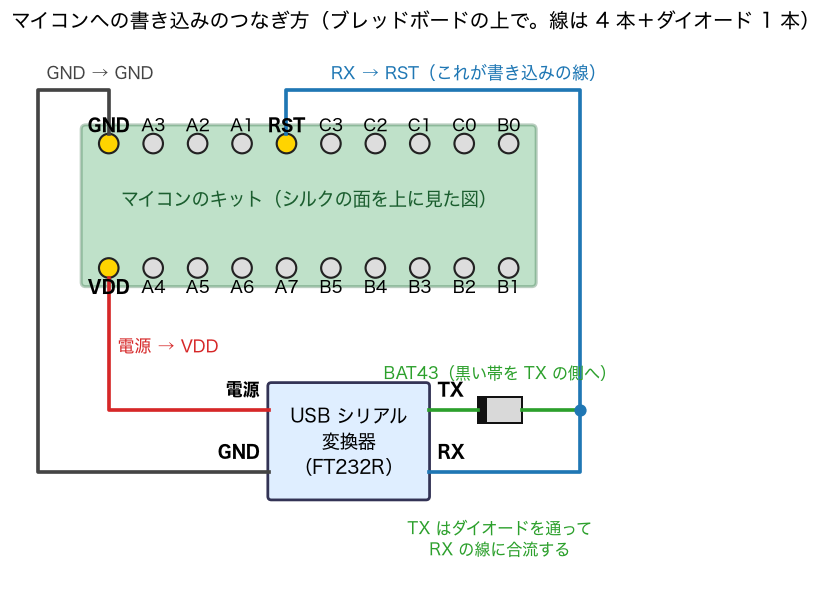
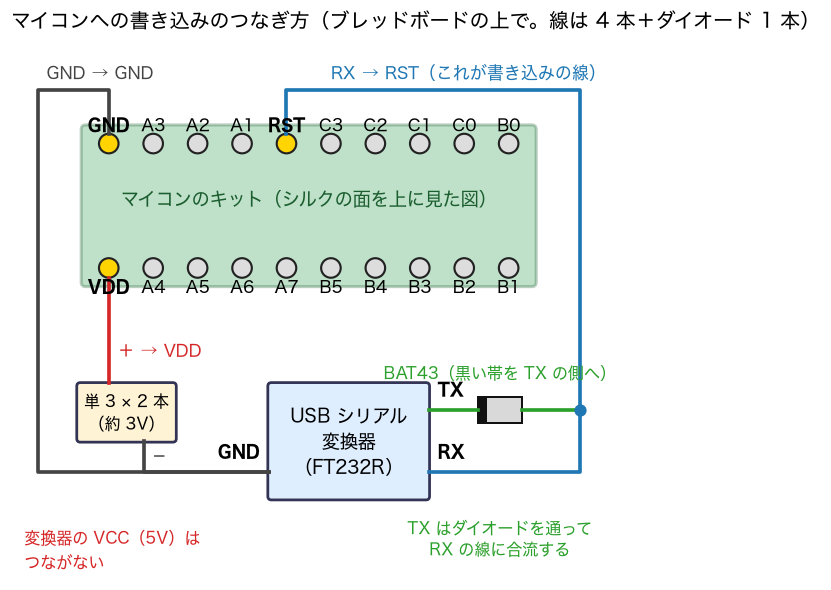
docs(joystick): 書き込みの図を実際の方法（単 3 × 2 本の電池・変換器の 5V はつながない）に直す

diff --git a/docs/hardware/joystick/guide/guide_figs.py b/docs/hardware/joystick/guide/guide_figs.py
@@ -156,9 +156,13 @@ def fig_kit_and_updi():
     ax.text(5.5, 3.0, "マイコンのキット（シルクの面を上に見た図）", ha="center", fontsize=12, color="#1b5e2f")
     # 変換器（線は直角に引き、キットの上を横切らせない）
     box(ax, 4.6, -3.6, 3.6, 2.6, "USB シリアル\n変換器\n（FT232R）", fc="#dfeeff")
-    for n, x, y, ha in (("電源", 4.4, -1.6, "right"), ("GND", 4.4, -3.0, "right"), ("TX", 8.4, -1.6, "left"), ("RX", 8.4, -3.0, "left")):
+    # 電源は変換器の VCC（5V）ではなく、単 3 × 2 本（約 3V）。5V だと書き込みピンが 3.3V の信号を High と認めない（2026-10-10 に実機で書いた方法）
+    for n, x, y, ha in (("GND", 4.4, -3.0, "right"), ("TX", 8.4, -1.6, "left"), ("RX", 8.4, -3.0, "left")):
         ax.text(x, y + 0.28, n, fontsize=11, va="bottom", ha=ha, fontweight="bold")
-    ax.plot([4.6, 1.0, 1.0], [-1.6, -1.6, 1.38], color="#d62728", lw=2.4); ax.text(1.2, -0.3, "電源 → VDD", color="#d62728", fontsize=11)
+    box(ax, 0.3, -2.3, 2.2, 1.3, "単 3 × 2 本\n（約 3V）", fc="#fff3d6", fs=10.5)
+    ax.plot([1.0, 1.0], [-1.0, 1.38], color="#d62728", lw=2.4); ax.text(1.2, -0.4, "＋ → VDD", color="#d62728", fontsize=11)
+    ax.plot([1.8, 1.8, 4.6], [-2.3, -3.0, -3.0], color="#444", lw=2.4); ax.text(2.0, -2.75, "−", color="#444", fontsize=12)
+    ax.text(-0.9, -4.2, "変換器の VCC（5V）は\nつながない", fontsize=10.5, color="#d62728", va="top")
     ax.plot([4.6, -0.6, -0.6, 1.0, 1.0], [-3.0, -3.0, 5.6, 5.6, 4.62], color="#444", lw=2.4); ax.text(-0.4, 5.85, "GND → GND", color="#444", fontsize=11)
     ax.plot([8.2, 11.6, 11.6, 5.0, 5.0], [-3.0, -3.0, 5.6, 5.6, 4.62], color="#1f77b4", lw=2.4); ax.text(6.0, 5.85, "RX → RST（これが書き込みの線）", color="#1f77b4", fontsize=11)
     ax.plot([8.2, 9.3], [-1.6, -1.6], color="#2ca02c", lw=2.4); ax.plot([10.3, 11.6], [-1.6, -1.6], color="#2ca02c", lw=2.4)
